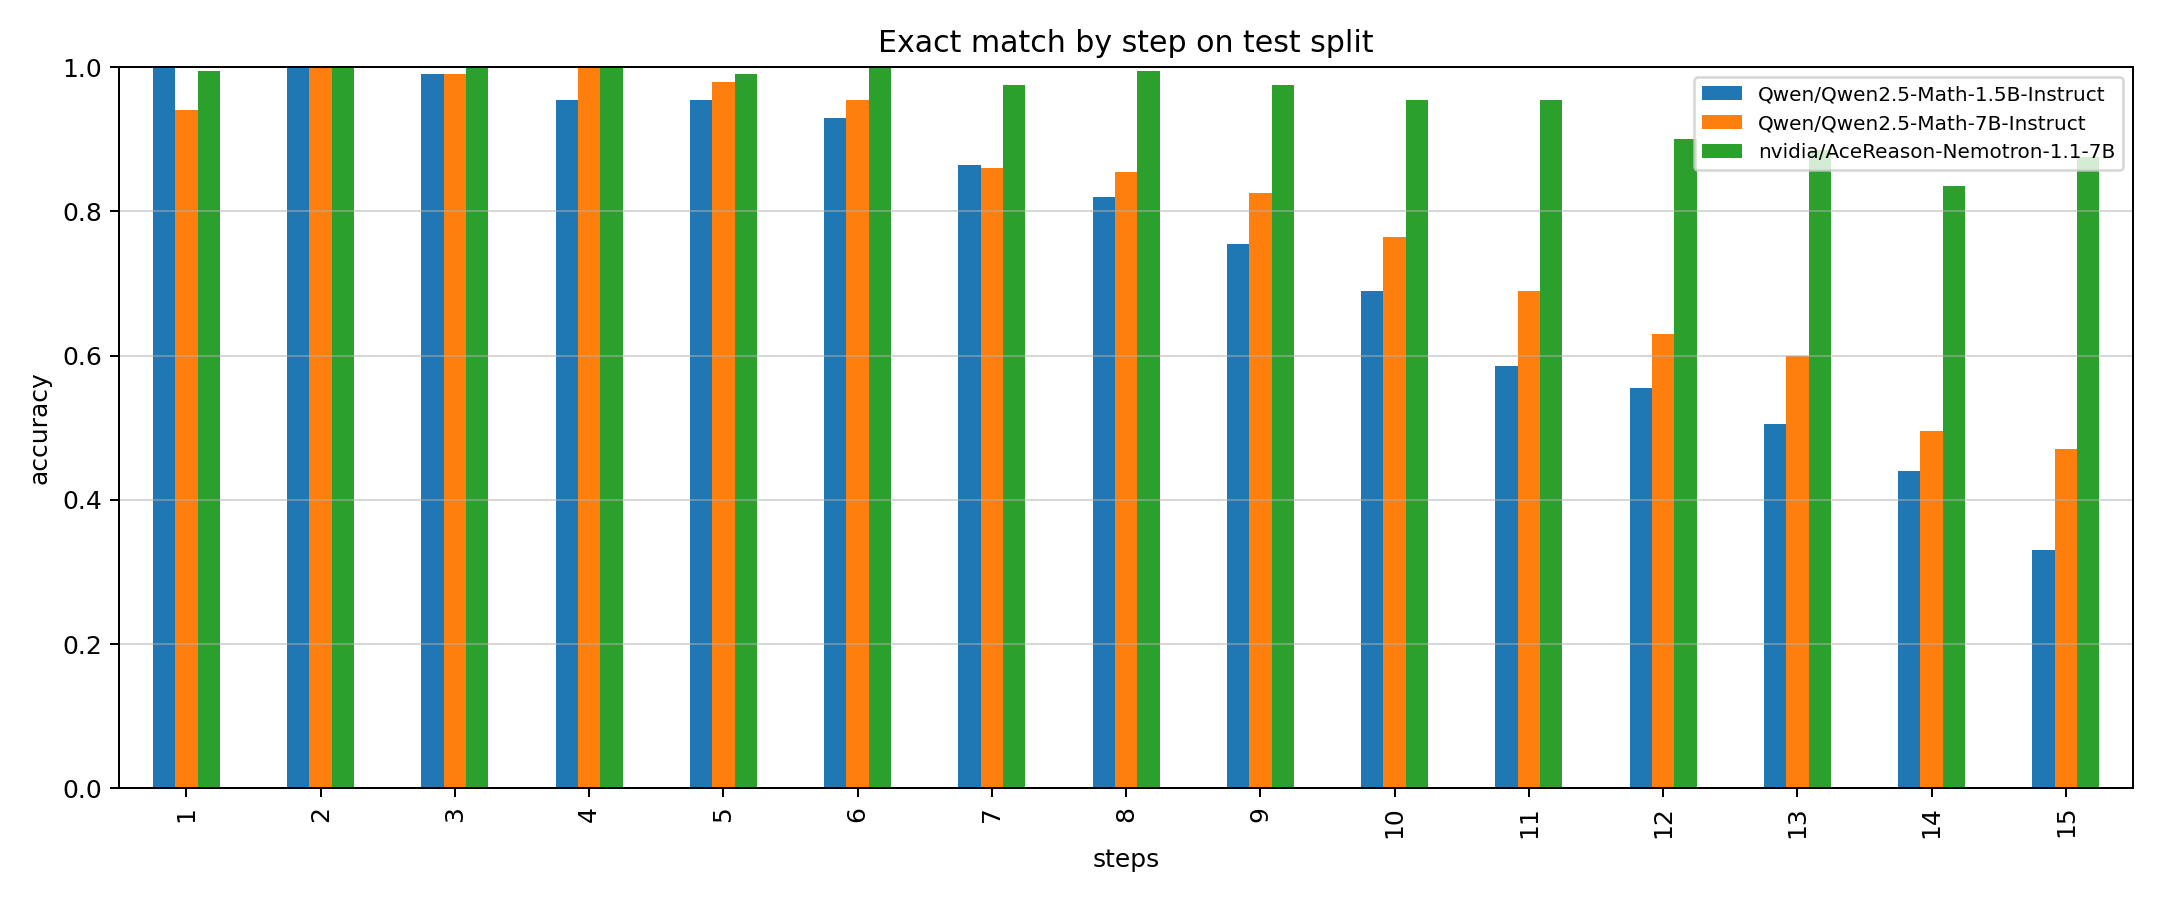
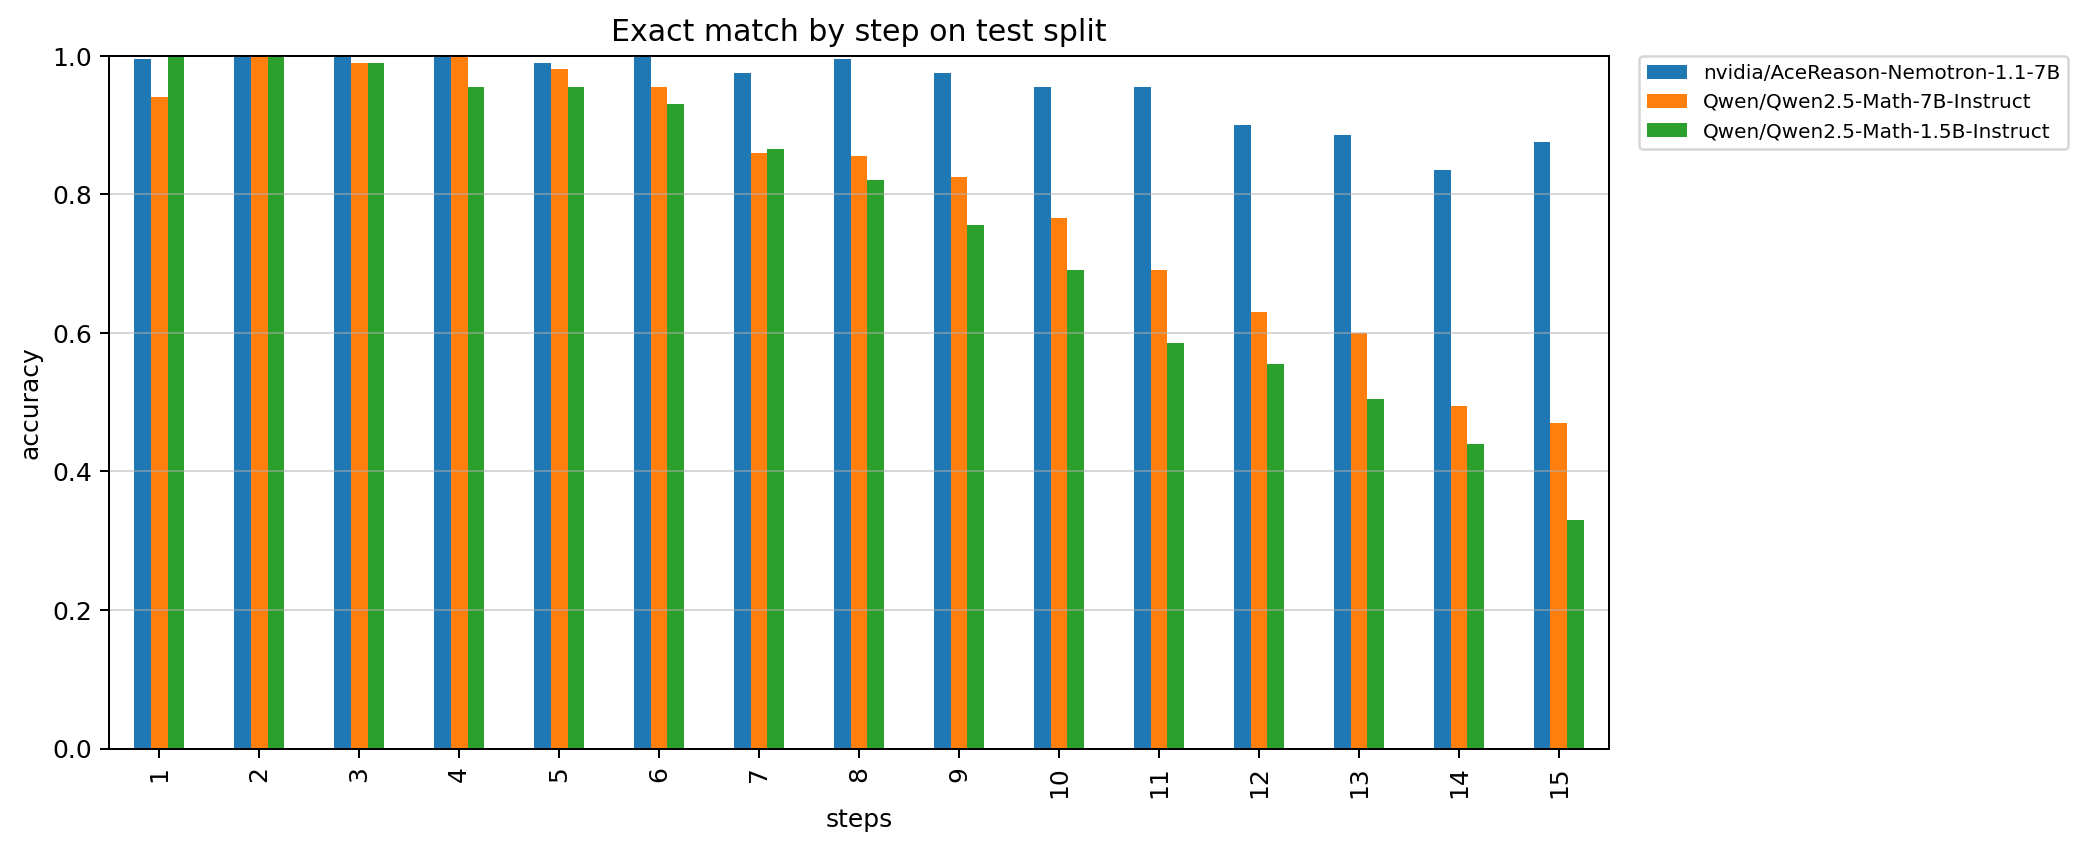
Order step-accuracy bars by model quality and move legend outside plot.

diff --git a/calculator_bench/plots.py b/calculator_bench/plots.py
@@ -9,6 +9,16 @@ from matplotlib import cm
 from calculator_bench.metrics import build_summary, safe_model_filename
 
 
+def _model_column_order(combined: pd.DataFrame) -> list[str]:
+    summary = build_summary(combined)
+    ranked = summary.sort_values(
+        ["overall_acc", "weighted_score"],
+        ascending=False,
+    )["model_id"].tolist()
+    present = set(combined["model_id"].unique())
+    return [m for m in ranked if m in present]
+
+
 def plot_step_accuracy(
     combined: pd.DataFrame,
     out_path: Path,
@@ -20,16 +30,25 @@ def plot_step_accuracy(
         values="correct",
         aggfunc="mean",
     ).sort_index()
-    ax = pivot.plot(kind="bar", figsize=(12, 5))
+    column_order = _model_column_order(combined)
+    pivot = pivot[column_order]
+
+    fig, ax = plt.subplots(figsize=(14, 5))
+    pivot.plot(kind="bar", ax=ax)
     ax.set_title(title)
     ax.set_xlabel("steps")
     ax.set_ylabel("accuracy")
     ax.set_ylim(0, 1)
-    ax.legend(loc="upper right", fontsize=8)
+    ax.legend(
+        loc="upper left",
+        bbox_to_anchor=(1.02, 1.0),
+        borderaxespad=0.0,
+        fontsize=8,
+    )
     ax.grid(axis="y", alpha=0.5)
-    plt.tight_layout()
-    plt.savefig(out_path, dpi=180)
-    plt.close()
+    fig.subplots_adjust(right=0.72)
+    fig.savefig(out_path, dpi=180, bbox_inches="tight")
+    plt.close(fig)
 
 
 def plot_pred_len_by_steps(